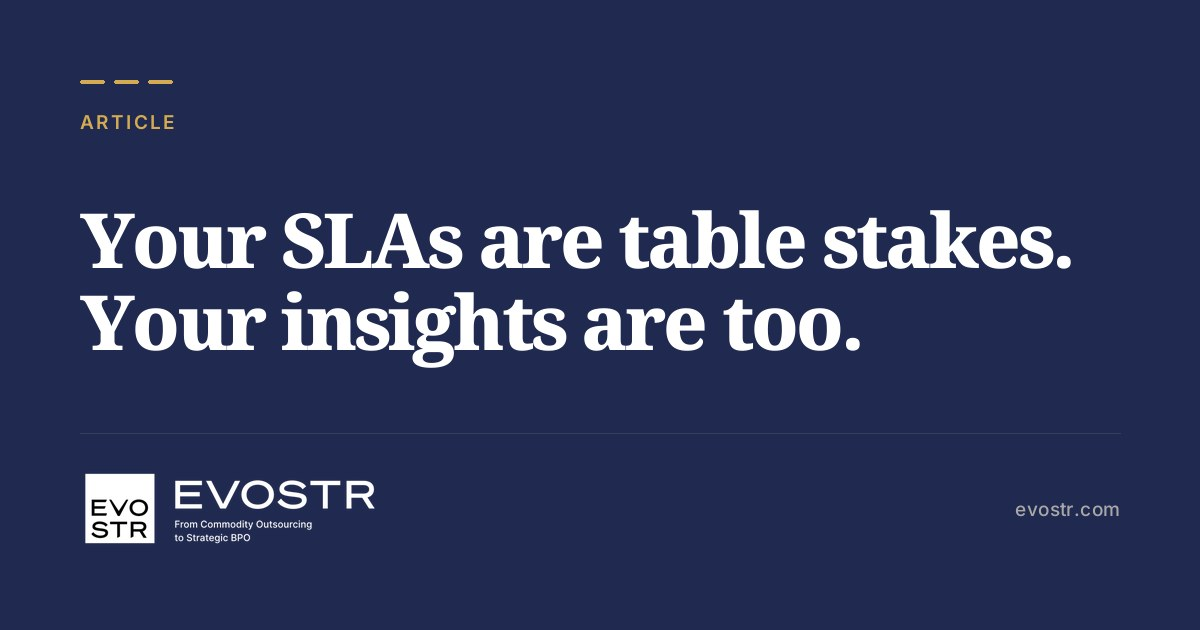
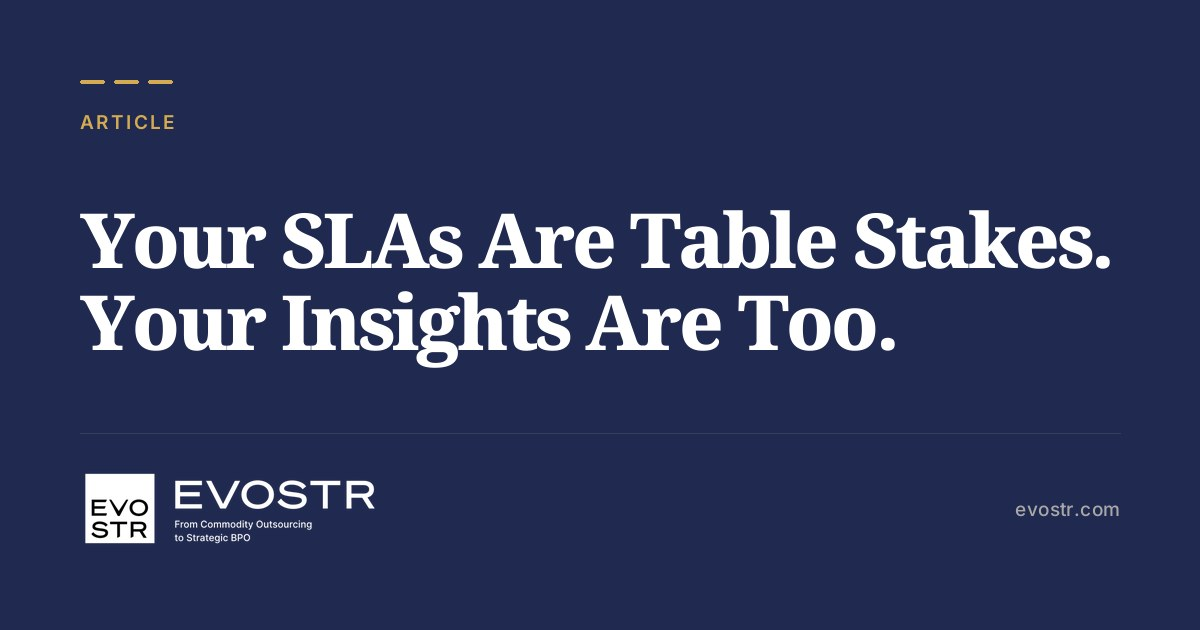
Title-case the SLAs article headline across article, list and share card

Changed region(s): [[0.2158, 0.4524, 0.74, 0.6032], [0.4008, 0.3317, 0.925, 0.4524]]

diff --git a/resources.html b/resources.html
@@ -258,7 +258,7 @@
 
         <a class="article-card" href="articles/your-slas-are-table-stakes-your-insights-are-too.html">
           <span class="article-date">August 2026</span>
-          <span class="article-title">Your SLAs are table stakes. Your insights are too.</span>
+          <span class="article-title">Your SLAs Are Table Stakes. Your Insights Are Too.</span>
           <span class="article-read">Read &rarr;</span>
         </a>
 
@@ -429,7 +429,11 @@
       var grid = document.querySelector('.articles-grid');
       if (!grid || !window.fetch || !window.DOMParser) return;
 
-      fetch('articles.html', { credentials: 'same-origin' })
+      /* no-cache = revalidate with the server before using a cached copy.
+         articles.html changes every time an article ships, and a stale cached
+         copy would quietly show an out-of-date grid — the exact failure this
+         script exists to prevent. */
+      fetch('articles.html', { credentials: 'same-origin', cache: 'no-cache' })
         .then(function (r) { return r.ok ? r.text() : Promise.reject(r.status); })
         .then(function (html) {
           var doc  = new DOMParser().parseFromString(html, 'text/html');

diff --git a/articles.html b/articles.html
@@ -196,7 +196,7 @@
         <a class="article-row" href="articles/your-slas-are-table-stakes-your-insights-are-too.html" data-tags="expertise leadership">
           <div>
             <div class="article-row-meta">August 2026 &middot; Amanda Quinn</div>
-            <div class="article-row-title">Your SLAs are table stakes. Your insights are too.</div>
+            <div class="article-row-title">Your SLAs Are Table Stakes. Your Insights Are Too.</div>
             <div class="article-row-excerpt">Four postures BPO client services teams take with clients. Only one of them makes a client's week lighter, and most teams stop two short of it.</div>
           </div>
           <span class="article-row-arrow">&rarr;</span>

diff --git a/articles/your-slas-are-table-stakes-your-insights-are-too.html b/articles/your-slas-are-table-stakes-your-insights-are-too.html
@@ -173,7 +173,7 @@
           <span>August 2026</span>
           <span>Amanda Quinn</span>
         </div>
-        <h1>Your SLAs are table stakes. Your insights are too.</h1>
+        <h1>Your SLAs Are Table Stakes. Your Insights Are Too.</h1>
         <p class="article-excerpt">Four postures BPO client services teams take with clients. Only one of them makes a client&#x27;s week lighter, and most teams stop two short of it.</p>
         <div class="article-tags"><a class="article-tag" href="../articles.html?tag=expertise">Expertise</a>
           <a class="article-tag" href="../articles.html?tag=leadership">Leadership</a></div>
